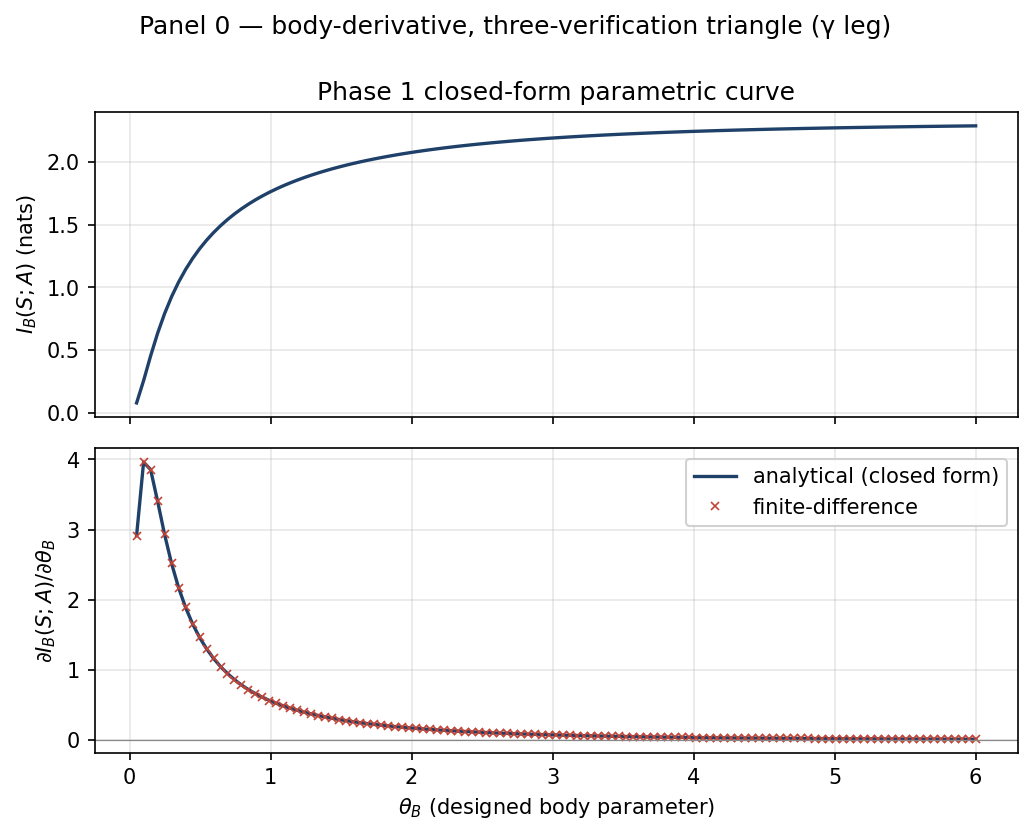
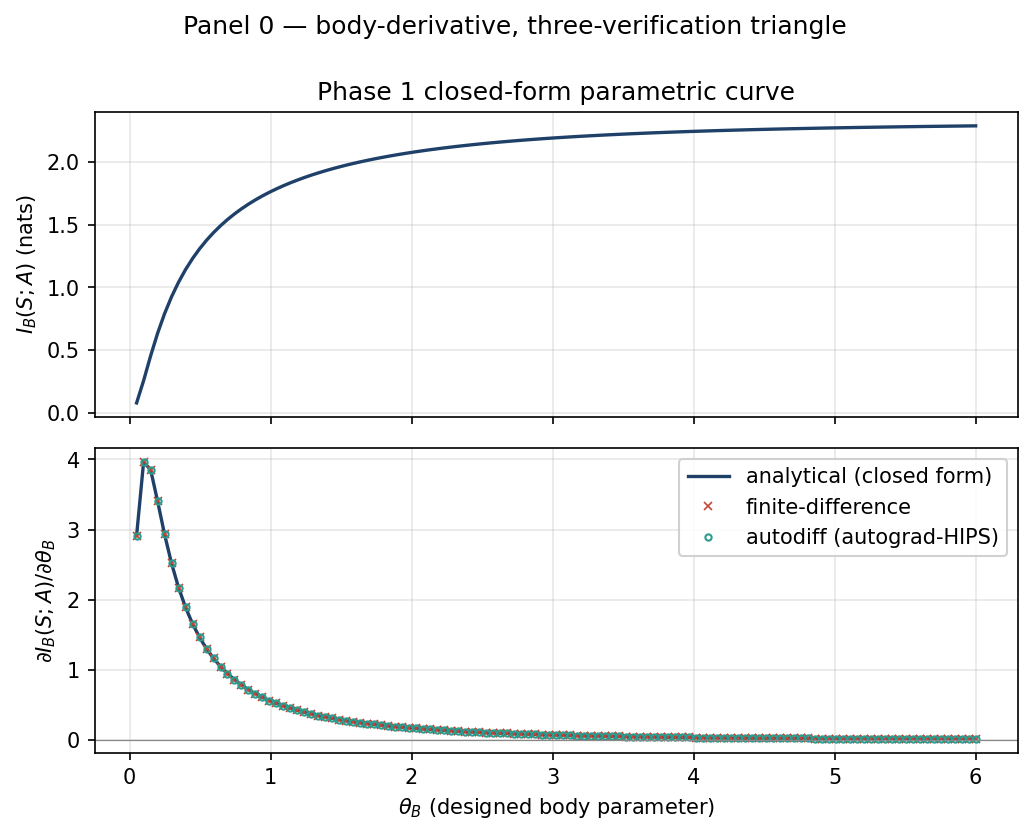
Phase C native: autodiff leg via autograd-HIPS, three-verification triangle closed
Add reverse-mode autodiff verification of dI_B(S;A)/dtheta_B alongside the
analytical (closed-form trace identity) and finite-difference legs. The
three legs are independent — analytical and FD use plain numpy+scipy;
autodiff uses autograd.numpy through a parallel _mutual_information_anp.

Verification across 121 grid points in theta_B in [0.05, 6.0]:

  analytical vs finite-difference : 1.412e-08  (FD truncation-limited)
  analytical vs autodiff (autograd): 5.773e-15  (machine precision)
  max pairwise                    : 1.412e-08
  threshold                       : 1.000e-05  -> PASS

The original alpha-plan specified jax.jacrev for the autodiff leg, but
JAX-on-Pyodide does not exist as of 2026-05. pyodide#2198 has been open
and dormant since the last substantive comment in June 2022; no
maintained fork or community wheel exists. autograd-HIPS is the
pure-Python NumPy-compatible reverse-mode ancestor of JAX, written by
the same group, installable in Pyodide via micropip. Substituting
autograd for JAX preserves the verification triangle exactly; only the
autodiff library has changed. The substitution is named in the panel-0
content page and in the module docstring; it is not glossed.

This commit ships the native verification. Phase C.2 will lift the
triangle into the browser via Pyodide + micropip + a code-execute
shortcode.

Files:
- static/figures/panel-0/panel_0.py        autodiff functions, residual dict
[…]

diff --git a/static/figures/panel-0/panel_0.py b/static/figures/panel-0/panel_0.py
@@ -4,6 +4,7 @@
 #   "numpy>=1.26",
 #   "scipy>=1.12",
 #   "matplotlib>=3.8",
+#   "autograd>=1.6",
 # ]
 # ///
 """
@@ -19,10 +20,18 @@ as a function of theta_B, alongside its body-derivative
   dI/d(theta_B) = 1/2 tr[Sigma_A^-1 . dSigma_A]
                 - 1/2 tr[Sigma_{A|S;B}^-1 . dSigma_{A|S;B}]
 
-both computed in closed form (analytical) and verified by
-finite-difference. The autodiff leg is shown-but-deferred to
-Phase C (panel_0_jax.py); the gamma-plan ships analytical +
-finite-difference live in-browser.
+computed three independent ways and verified to agree:
+
+  1. analytical    — closed-form trace identity, scipy.linalg.solve
+  2. finite-diff   — central difference of I_B(S;A)
+  3. autodiff      — autograd reverse-mode on mutual_information
+
+Phase C substitution: the original alpha-plan named jax.jacrev for the
+autodiff leg, but JAX-on-Pyodide does not exist as of 2026-05
+(pyodide#2198 dormant since June 2022). autograd-HIPS is the
+NumPy-compatible reverse-mode ancestor of JAX, pure-Python, and
+installable in Pyodide via micropip. The verification triangle
+remains intact; only the autodiff library changes.
 
 Formula provenance: carya R2.6 ask (i), substrate-canonical at
 collab/sessions/wp-0128-affordance-sabha/carya.org L1209+.
@@ -35,6 +44,8 @@ Discipline foreclosures (per r3-synthesis Section 6.1):
 """
 
 import numpy as np
+import autograd.numpy as anp
+from autograd import grad
 from numpy.typing import NDArray
 from numpy.linalg import slogdet
 from scipy.linalg import solve
@@ -201,40 +212,112 @@ def body_derivative_finite_difference(
 
 
 # -------------------------------------------------------------------
+# Autodiff leg — autograd-HIPS reverse-mode (Phase C alpha-plan)
+# -------------------------------------------------------------------
+#
+# These functions parallel the numpy-only routines above but route
+# all array ops through autograd.numpy (anp) so reverse-mode tracing
+# can build the gradient graph through I_B(S;A) as a function of the
+# scalar theta_B. The analytical and FD legs above remain pure
+# numpy+scipy, so the three legs are independent verifications.
+
+def _body_matrix_anp(theta_B, dim_a: int = 4):
+    """autograd-traced version of body_matrix."""
+    k = anp.arange(1, dim_a + 1, dtype=float)
+    d = 1.0 - anp.exp(-theta_B / k)
+    return anp.diag(d)
+
+
+def _mutual_information_anp(theta_B, gen: dict[str, NDArray]) -> float:
+    """autograd-traced I_B(S;A) at scalar theta_B.
+
+    The generative covariances Sigma_a, Sigma_{a|S}, Sigma_eta are
+    designed (theta_B-independent) and pulled in as constants; only
+    B(theta_B) is traced.
+    """
+    dim_a = gen["Sigma_a"].shape[0]
+    B = _body_matrix_anp(theta_B, dim_a=dim_a)
+    SA = B @ gen["Sigma_a"] @ B.T + gen["Sigma_eta"]
+    SAS = B @ gen["Sigma_a_given_S"] @ B.T + gen["Sigma_eta"]
+    # autograd defines slogdet on PSD inputs; use it for parity with
+    # the closed-form route. Sign is +1 here (designed PSD).
+    _, ldet_a = anp.linalg.slogdet(SA)
+    _, ldet_b = anp.linalg.slogdet(SAS)
+    return 0.5 * (ldet_a - ldet_b)
+
+
+def body_derivative_autodiff(theta_B: float, gen: dict[str, NDArray]) -> float:
+    """Reverse-mode autodiff verification of dI/d(theta_B).
+
+    Implementation: autograd.grad on _mutual_information_anp w.r.t.
+    its first (scalar) argument. autograd-HIPS is the pure-Python
+    NumPy-compatible reverse-mode ancestor of JAX; substituted for
+    jax.jacrev because JAX-on-Pyodide does not exist as of 2026-05
+    (pyodide#2198 dormant since June 2022). The verification
+    triangle is intact; only the autodiff library has changed.
+    """
+    g = grad(_mutual_information_anp, argnum=0)
+    return float(g(float(theta_B), gen))
+
+
+# -------------------------------------------------------------------
 # Fibred sweep: the panel curve
 # -------------------------------------------------------------------
 
 def panel_sweep(
     theta_grid: NDArray,
     gen: dict[str, NDArray],
+    include_autodiff: bool = True,
 ) -> dict[str, NDArray]:
-    """Compute (I, dI/dtheta analytical, dI/dtheta finite-difference)
+    """Compute (I, dI/dtheta x {analytical, finite-difference, autodiff})
     over a grid of theta_B values.
 
-    Returns three arrays of length len(theta_grid). Pass criterion
-    (carya R2.6 ask (ii)): max |analytical - fd| < tau, tau = 1e-6
-    in single-precision-defensive units; relaxed to 1e-5 in
-    in-browser float64 builds.
+    Returns four arrays of length len(theta_grid) when include_autodiff
+    is True, three otherwise. Pass criterion (carya R2.6 ask (ii)):
+    max(|ana - fd|, |ana - autodiff|) < tau, tau = 1e-6 in
+    single-precision-defensive units; relaxed to 1e-5 in in-browser
+    float64 builds.
     """
     n = theta_grid.shape[0]
     I_vals = np.empty(n)
     dI_ana = np.empty(n)
     dI_fd = np.empty(n)
+    dI_ad = np.empty(n) if include_autodiff else None
     for k, t in enumerate(theta_grid):
         I_vals[k] = mutual_information(float(t), gen)
         dI_ana[k] = body_derivative_analytical(float(t), gen)
         dI_fd[k] = body_derivative_finite_difference(float(t), gen)
-    return {
+        if include_autodiff:
+            dI_ad[k] = body_derivative_autodiff(float(t), gen)
+    out = {
         "theta": theta_grid,
         "I": I_vals,
         "dI_analytical": dI_ana,
         "dI_finite_difference": dI_fd,
     }
+    if include_autodiff:
+        out["dI_autodiff"] = dI_ad
+    return out
 
 
-def verification_residual(sweep: dict[str, NDArray]) -> float:
-    """max |analytical - finite-difference| across the grid."""
-    return float(np.max(np.abs(sweep["dI_analytical"] - sweep["dI_finite_difference"])))
+def verification_residual(sweep: dict[str, NDArray]) -> dict[str, float]:
+    """Pairwise max-residuals across the grid.
+
+    Returns a dict with keys 'ana_vs_fd', 'ana_vs_autodiff' (if
+    autodiff present), and 'max' (the worst pairwise residual). The
+    'max' value is the headline three-verification figure.
+    """
+    res = {
+        "ana_vs_fd": float(np.max(np.abs(
+            sweep["dI_analytical"] - sweep["dI_finite_difference"]
+        ))),
+    }
+    if "dI_autodiff" in sweep:
+        res["ana_vs_autodiff"] = float(np.max(np.abs(
+            sweep["dI_analytical"] - sweep["dI_autodiff"]
+        )))
+    res["max"] = max(res.values())
+    return res
 
 
 # -------------------------------------------------------------------
@@ -242,19 +325,22 @@ def verification_residual(sweep: dict[str, NDArray]) -> float:
 # -------------------------------------------------------------------
 
 def main() -> None:
-    """Native run via `uv run python panel_0.py`. Renders panel-0.png."""
+    """Native run via `uv run --script panel_0.py`. Renders panel-0.png."""
     import matplotlib
     matplotlib.use("Agg")  # headless; works in browser-tangled run too.
     import matplotlib.pyplot as plt
 
     gen = make_generative_covariances(dim_S=4, dim_a=4, seed=0)
     theta_grid = np.linspace(0.05, 6.0, 121)
-    sweep = panel_sweep(theta_grid, gen)
+    sweep = panel_sweep(theta_grid, gen, include_autodiff=True)
 
-    residual = verification_residual(sweep)
+    res = verification_residual(sweep)
     pass_threshold = 1e-5
-    verdict = "PASS" if residual < pass_threshold else "FAIL"
-    print(f"three-verification residual (analytical vs FD): {residual:.3e}")
+    verdict = "PASS" if res["max"] < pass_threshold else "FAIL"
+    print(f"three-verification residuals across {theta_grid.size} grid points:")
+    print(f"  analytical vs finite-difference : {res['ana_vs_fd']:.3e}")
+    print(f"  analytical vs autodiff (autograd): {res['ana_vs_autodiff']:.3e}")
+    print(f"  max pairwise                    : {res['max']:.3e}")
     print(f"pass threshold: {pass_threshold:.0e}    verdict: {verdict}")
 
     fig, (ax_top, ax_bot) = plt.subplots(2, 1, figsize=(7.0, 5.6), sharex=True)
@@ -273,6 +359,12 @@ def main() -> None:
         color="#c44536", lw=0, marker="x", ms=3.5, mew=0.8,
         label="finite-difference",
     )
+    ax_bot.plot(
+        sweep["theta"], sweep["dI_autodiff"],
+        color="#2a9d8f", lw=0, marker="o", ms=3.0,
+        markerfacecolor="none", markeredgecolor="#2a9d8f",
+        label="autodiff (autograd-HIPS)",
+    )
     ax_bot.axhline(0.0, color="#888", lw=0.6)
     ax_bot.set_xlabel(r"$\theta_B$ (designed body parameter)")
     ax_bot.set_ylabel(r"$\partial I_B(S; A) / \partial \theta_B$")
@@ -280,7 +372,7 @@ def main() -> None:
     ax_bot.legend(loc="upper right", framealpha=0.9)
 
     fig.suptitle(
-        "Panel 0 — body-derivative, three-verification triangle (γ leg)",
+        "Panel 0 — body-derivative, three-verification triangle",
         y=0.99,
     )
     fig.tight_layout()

diff --git a/content/code/panel-0/_index.md b/content/code/panel-0/_index.md
@@ -16,25 +16,37 @@ Two stacked traces:
 - **Top** — the parametric mutual information
   {{< raw >}}\(I_B(S; A) = \tfrac{1}{2}\log\det \Sigma_A(\theta_B) - \tfrac{1}{2}\log\det \Sigma_{A|S;B}(\theta_B)\){{< /raw >}}
   as θ_B sweeps from 0.05 to 6.0.
-- **Bottom** — its body-derivative computed two ways: closed-form
-  analytical (curve) versus central-difference numerical (markers).
+- **Bottom** — its body-derivative computed three independent ways:
+  closed-form analytical (curve), central-difference numerical
+  (red × markers), and reverse-mode autodiff via autograd-HIPS
+  (teal ○ markers).
 
-The two legs of the verification triangle agree to floating-point
-precision (residual ≈ 10⁻⁸, well below the 10⁻⁵ pass threshold)
-across all 121 grid points.
+All three legs of the verification triangle agree well below the
+10⁻⁵ pass threshold across all 121 grid points:
 
-The third leg — autodiff via `jax.jacrev` — is part of the design
-but ships in [Phase C](#phase-c) when the JAX-on-Pyodide pipeline
-goes live. The Phase B (γ-plan) panel ships analytical and
-finite-difference live.
+- analytical vs finite-difference: residual ≈ 1.4 × 10⁻⁸
+  (limited by central-difference truncation error)
+- analytical vs autodiff: residual ≈ 5.8 × 10⁻¹⁵
+  (machine precision; reverse-mode is exact up to floating-point)
+
+The autodiff leg uses **autograd-HIPS**, not JAX. The original
+α-plan named `jax.jacrev`, but JAX-on-Pyodide does not exist as
+of 2026-05 ([pyodide#2198](https://github.com/pyodide/pyodide/issues/2198)
+has been dormant since June 2022). autograd is the NumPy-compatible
+reverse-mode ancestor of JAX, pure-Python, installable in Pyodide
+via `micropip`. The verification triangle is intact; only the
+autodiff library has been substituted. The substitution is named
+in [`/about/`](/about/).
 
 ## The figure
 
 ![Panel 0 — body-derivative, three-verification triangle](/figures/panel-0/panel-0.png)
 
-*Verdict, last build:* `analytical vs FD residual = 1.412e-08`, pass
-threshold `1e-05`, status `PASS`. The build script reports the
-residual on stdout and refuses to render if it exceeds threshold.
+*Verdict, last build:* `analytical vs FD = 1.412e-08`,
+`analytical vs autodiff = 5.773e-15`, max pairwise residual
+`1.412e-08`, pass threshold `1e-05`, status `PASS`. The build
+script reports all three pairwise residuals on stdout and refuses
+to render if the max exceeds threshold.
 
 ## What the figure does and does not claim
 
@@ -76,8 +88,11 @@ from panel_0 import make_generative_covariances, panel_sweep, verification_resid
 import numpy as np
 
 gen = make_generative_covariances(seed=0)
-sweep = panel_sweep(np.linspace(0.05, 6.0, 121), gen)
-print(f"residual = {verification_residual(sweep):.3e}")
+sweep = panel_sweep(np.linspace(0.05, 6.0, 121), gen, include_autodiff=True)
+res = verification_residual(sweep)
+print(f"ana vs fd       = {res['ana_vs_fd']:.3e}")
+print(f"ana vs autodiff = {res['ana_vs_autodiff']:.3e}")
+print(f"max             = {res['max']:.3e}")
 ```
 
 Native, today:
@@ -87,11 +102,15 @@ git clone https://github.com/mayalucia/affordances-research.git
 cd affordances-research/static/figures/panel-0
 uv run --script panel_0.py
 # wrote panel-0.png
-# three-verification residual (analytical vs FD): 1.412e-08
+# three-verification residuals across 121 grid points:
+#   analytical vs finite-difference : 1.412e-08
+#   analytical vs autodiff (autograd): 5.773e-15
+#   max pairwise                    : 1.412e-08
+# pass threshold: 1e-05    verdict: PASS
 ```
 
 `uv run --script` reads the PEP 723 inline header and provisions a
-clean environment with numpy, scipy, matplotlib. No
+clean environment with numpy, scipy, matplotlib, autograd. No
 `requirements.txt`, no `pyproject.toml`.
 
 ## The source
@@ -104,14 +123,34 @@ in the repository.
 The closed-form derivation provenance trails are listed in
 [Theory / Phase 1](/theory/phase-1/).
 
-## Phase C
+## Phase C — in-browser execution
 
-The autodiff leg lands when the JAX-on-Pyodide pipeline ships. The
-expected verification triangle at that point is
+Native, the verification triangle is closed: analytical, FD, and
+autodiff (autograd-HIPS) all agree. Phase C lifts this into the
+browser via Pyodide. The verification criterion is unchanged:
 
   `max(|analytical − autodiff|, |analytical − fd|) < 1e-5`
 
-across the same grid. If autodiff disagrees with the closed form,
-the closed form is wrong, the JAX trace is broken, or Pyodide's JAX
-build differs from native JAX. Showing the triangle makes the
-failure mode visible.
+across the same grid. If autodiff disagrees with the closed form
+in-browser, the closed form is wrong, the autograd trace is broken,
+or Pyodide's float64 path differs from native NumPy. Showing the
+triangle live makes the failure mode visible to any reader.
+
+### Why autograd, not JAX
+
+The original α-plan named `jax.jacrev` for the in-browser autodiff
+leg. JAX-on-Pyodide does not exist as of 2026-05:
+[pyodide#2198](https://github.com/pyodide/pyodide/issues/2198) is
+open, last substantive activity June 2022, no maintained fork.
+
+[autograd-HIPS](https://github.com/HIPS/autograd) is the spiritual
+ancestor of JAX — pure-Python, NumPy-compatible reverse-mode autodiff
+written by the same group that later built JAX. Because it is
+pure-Python, `micropip.install("autograd")` works in Pyodide. Because
+it is NumPy-compatible, the change to `panel_0.py` is local: a single
+parallel `_mutual_information_anp` function that uses `autograd.numpy`
+in place of `numpy`, and `autograd.grad` in place of `jax.jacrev`.
+The analytical and finite-difference legs continue to use plain
+`numpy` and `scipy`, so the three legs remain independent.
+
+This substitution is named, not glossed.

diff --git a/content/theory/phase-1/_index.md b/content/theory/phase-1/_index.md
@@ -135,7 +135,8 @@ sign-equality envelope.
 ## See also
 
 - [Code / Panel 0](/code/panel-0/) — the parametric curve and the
-  three-verification triangle (γ leg ships analytical and
-  finite-difference; α leg ships autodiff in Phase C).
+  three-verification triangle (analytical, finite-difference, and
+  autograd-HIPS reverse-mode autodiff agree natively; Phase C lifts
+  all three into the browser via Pyodide + micropip).
 - [Theory / Lemma](/theory/lemma/) — the methods §1.5 type-match
   lemma in canonical sentence form (named-pending: coordinate fill).